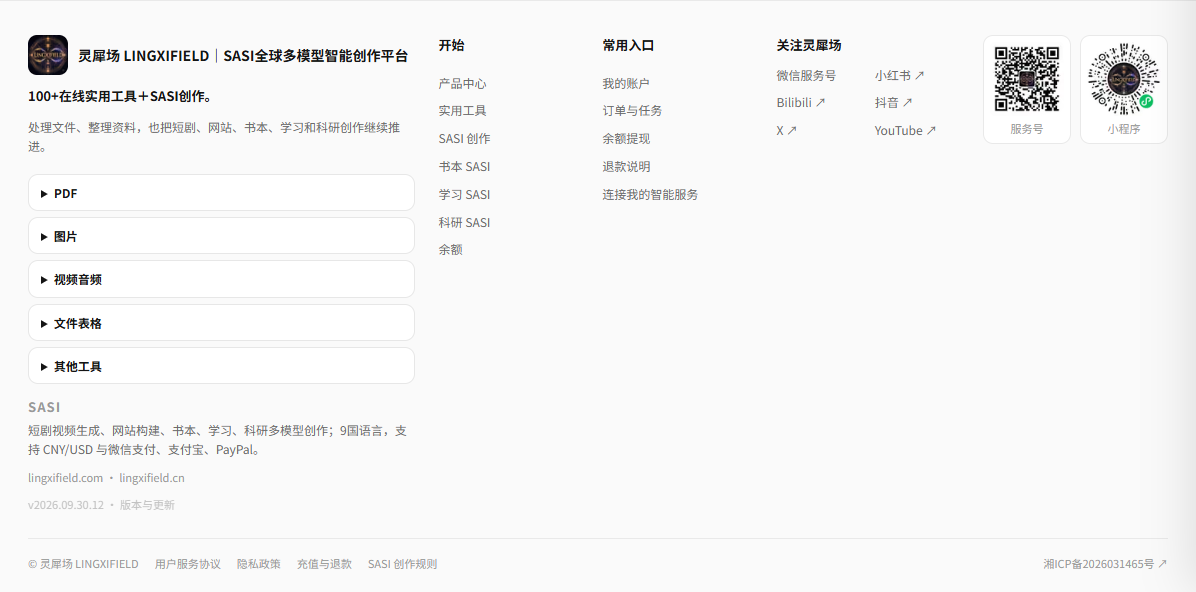
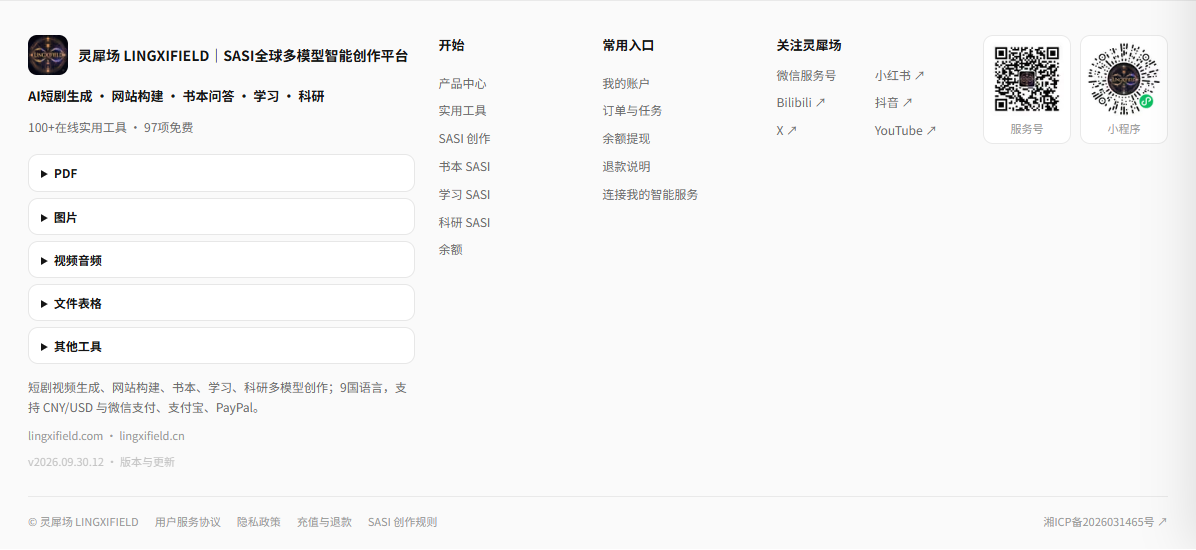
fix: make nine-language features discoverable and preserve SASI project requests

diff --git a/lib/seo/global-seo.ts b/lib/seo/global-seo.ts
@@ -1,4 +1,5 @@
 import {BRAND_PUBLIC_COPY} from "@/lib/brand-public-copy";
+import {PUBLIC_FEATURE_COPY} from "@/lib/public-feature-copy";
 import {toolIntro} from "@/lib/tools/product-copy";
 import {toolTitle as translatedToolTitle} from '@/lib/tools/card-i18n';
 import {toolFacts} from './product-facts';
@@ -6,7 +7,7 @@ import {PRIMARY_SITE} from "./site-domains";
 export const SITE=PRIMARY_SITE;
 export const SEO_LOCALES={  "zh":{
     hreflang:"zh-CN",name:"中文",dir:"ltr",
-    brand:"灵犀场 LINGXIFIELD",homeTitle:BRAND_PUBLIC_COPY.zh.title,homeDesc:"处理 PDF、图片、视频和文字，整理资料并围绕原文提问。各项功能的处理方式和费用在使用前说明。",
+    brand:"灵犀场 LINGXIFIELD",homeTitle:BRAND_PUBLIC_COPY.zh.title,homeDesc:PUBLIC_FEATURE_COPY.zh.description,
     toolsTitle:"在线实用工具｜PDF、图片、视频与文件",toolsDesc:"选择 PDF、图片、视频或文字工具，按步骤处理并保存文件。处理方式和费用请查看工具页面。",
     open:"打开工具",allTools:"查看全部工具",how:"怎么使用",what:"能做什么",privacy:"处理方式",
     local:"这项工具优先在你的设备中完成处理。",online:"这项工具需要在线处理；如产生费用，会在真正执行前说明。",topicIntro:"SASI 可以用于短剧、网站、书本、学习和科研创作。需要付费的步骤会在真正执行前显示费用；需要智能生成时可连接自己的智能服务。",
@@ -14,7 +15,7 @@ export const SEO_LOCALES={  "zh":{
   },
   "en":{
     hreflang:"en",name:"English",dir:"ltr",
-    brand:"LINGXIFIELD",homeTitle:BRAND_PUBLIC_COPY.en.title,homeDesc:"Work with PDFs, images, video and text. Organize sources and ask questions about them. Processing details and prices are shown before use.",
+    brand:"LINGXIFIELD",homeTitle:BRAND_PUBLIC_COPY.en.title,homeDesc:PUBLIC_FEATURE_COPY.en.description,
     toolsTitle:"Online tools for PDF, images, video and files",toolsDesc:"Choose a PDF, image, video or text tool, follow the steps and save your file. See each tool for processing details and prices.",
     open:"Open tool",allTools:"Browse all tools",how:"How to use it",what:"What it does",privacy:"Processing",
     local:"This tool is designed to run on your device whenever possible.",online:"This tool uses online processing. Any charge is shown before paid execution.",topicIntro:"SASI supports drama, website, book, learning and research workflows. Paid steps show the price before execution; connect your own intelligence service when intelligent generation is needed.",
@@ -22,7 +23,7 @@ export const SEO_LOCALES={  "zh":{
   },
   "ja":{
     hreflang:"ja",name:"日本語",dir:"ltr",
-    brand:"LINGXIFIELD",homeTitle:BRAND_PUBLIC_COPY.ja.title,homeDesc:"PDF・画像・動画・テキストを扱い、資料を整理して原文について質問できます。処理方法と料金は利用前に確認できます。",
+    brand:"LINGXIFIELD",homeTitle:BRAND_PUBLIC_COPY.ja.title,homeDesc:PUBLIC_FEATURE_COPY.ja.description,
     toolsTitle:"PDF・画像・動画・ファイルの実用ツール",toolsDesc:"PDF・画像・動画・テキストのツールを選び、手順に沿って処理して保存します。処理方法と料金は各ツールで確認できます。",
     open:"ツールを開く",allTools:"すべてのツール",how:"使い方",what:"できること",privacy:"処理方法",
     local:"可能な処理は端末内で実行します。",online:"オンライン処理を使います。有料の場合は実行前に料金を表示します。",topicIntro:"SASIは短編ドラマ、Webサイト、本、学習、研究に利用できます。有料の工程は実行前に料金を表示し、智能生成が必要な場合は自分のAIサービスを接続できます。",
@@ -30,7 +31,7 @@ export const SEO_LOCALES={  "zh":{
   },
   "ko":{
     hreflang:"ko",name:"한국어",dir:"ltr",
-    brand:"LINGXIFIELD",homeTitle:BRAND_PUBLIC_COPY.ko.title,homeDesc:"PDF·이미지·영상·텍스트를 처리하고 자료를 정리해 원문에 대해 질문하세요. 처리 방식과 요금은 사용 전에 확인할 수 있습니다.",
+    brand:"LINGXIFIELD",homeTitle:BRAND_PUBLIC_COPY.ko.title,homeDesc:PUBLIC_FEATURE_COPY.ko.description,
     toolsTitle:"PDF, 이미지, 영상, 파일 실용 도구",toolsDesc:"PDF·이미지·영상·텍스트 도구를 선택하고 안내에 따라 처리한 뒤 저장하세요. 처리 방식과 요금은 각 도구에서 확인하세요.",
     open:"도구 열기",allTools:"모든 도구 보기",how:"사용 방법",what:"할 수 있는 일",privacy:"처리 방식",
     local:"가능한 작업은 기기에서 직접 처리합니다.",online:"온라인 처리를 사용합니다. 유료 작업은 실행 전에 비용을 표시합니다.",topicIntro:"SASI는 숏드라마, 웹사이트, 책, 학습, 연구 작업에 사용할 수 있습니다. 유료 단계는 실행 전에 요금을 표시하며 지능형 생성이 필요할 때 자신의 서비스를 연결할 수 있습니다.",
@@ -38,7 +39,7 @@ export const SEO_LOCALES={  "zh":{
   },
   "fr":{
     hreflang:"fr",name:"Français",dir:"ltr",
-    brand:"LINGXIFIELD",homeTitle:BRAND_PUBLIC_COPY.fr.title,homeDesc:"Traitez PDF, images, vidéos et textes. Organisez vos sources et posez des questions à leur sujet. Les modalités et tarifs sont indiqués avant utilisation.",
+    brand:"LINGXIFIELD",homeTitle:BRAND_PUBLIC_COPY.fr.title,homeDesc:PUBLIC_FEATURE_COPY.fr.description,
     toolsTitle:"Outils en ligne pour PDF, images, vidéo et fichiers",toolsDesc:"Choisissez un outil PDF, image, vidéo ou texte, suivez les étapes et enregistrez votre fichier. Consultez les modalités et tarifs sur sa page.",
     open:"Ouvrir l’outil",allTools:"Voir tous les outils",how:"Comment l’utiliser",what:"Ce que l’outil fait",privacy:"Traitement",
     local:"Lorsque c’est possible, le traitement reste sur votre appareil.",online:"Cet outil utilise un traitement en ligne. Tout coût est indiqué avant l’exécution payante.",topicIntro:"SASI prend en charge les flux de mini-séries, sites, livres, apprentissage et recherche. Les étapes payantes affichent le tarif avant exécution ; connectez votre service d’IA lorsque la génération intelligente est nécessaire.",
@@ -46,7 +47,7 @@ export const SEO_LOCALES={  "zh":{
   },
   "de":{
     hreflang:"de",name:"Deutsch",dir:"ltr",
-    brand:"LINGXIFIELD",homeTitle:BRAND_PUBLIC_COPY.de.title,homeDesc:"Bearbeite PDFs, Bilder, Videos und Texte. Ordne Quellen und stelle Fragen dazu. Verarbeitung und Preise werden vor der Nutzung angezeigt.",
+    brand:"LINGXIFIELD",homeTitle:BRAND_PUBLIC_COPY.de.title,homeDesc:PUBLIC_FEATURE_COPY.de.description,
     toolsTitle:"Online-Tools für PDF, Bilder, Video und Dateien",toolsDesc:"Wähle ein Tool für PDF, Bilder, Video oder Text, folge den Schritten und speichere die Datei. Verarbeitung und Preise stehen auf der Tool-Seite.",
     open:"Tool öffnen",allTools:"Alle Tools",how:"So funktioniert es",what:"Was das Tool macht",privacy:"Verarbeitung",
     local:"Wo möglich, wird die Verarbeitung direkt auf deinem Gerät ausgeführt.",online:"Dieses Tool nutzt Online-Verarbeitung. Kosten werden vor einer kostenpflichtigen Ausführung angezeigt.",topicIntro:"SASI unterstützt Kurzdrama-, Website-, Buch-, Lern- und Forschungsabläufe. Kostenpflichtige Schritte zeigen den Preis vor der Ausführung; bei Bedarf kannst du deinen eigenen KI-Dienst verbinden.",
@@ -54,7 +55,7 @@ export const SEO_LOCALES={  "zh":{
   },
   "es":{
     hreflang:"es",name:"Español",dir:"ltr",
-    brand:"LINGXIFIELD",homeTitle:BRAND_PUBLIC_COPY.es.title,homeDesc:"Trabaja con PDF, imágenes, vídeos y textos. Organiza fuentes y haz preguntas sobre ellas. El tratamiento y los precios se indican antes del uso.",
+    brand:"LINGXIFIELD",homeTitle:BRAND_PUBLIC_COPY.es.title,homeDesc:PUBLIC_FEATURE_COPY.es.description,
     toolsTitle:"Herramientas online para PDF, imágenes, vídeo y archivos",toolsDesc:"Elige una herramienta para PDF, imágenes, vídeo o texto, sigue los pasos y guarda el archivo. Consulta los detalles y precios en cada herramienta.",
     open:"Abrir herramienta",allTools:"Ver todas las herramientas",how:"Cómo usarla",what:"Qué hace",privacy:"Procesamiento",
     local:"Siempre que sea posible, el procesamiento se realiza en tu dispositivo.",online:"Esta herramienta usa procesamiento online. Cualquier coste se muestra antes de ejecutar una acción de pago.",topicIntro:"SASI admite flujos de minidramas, sitios web, libros, aprendizaje e investigación. Los pasos de pago muestran el precio antes de ejecutarse; conecta tu propio servicio de IA cuando haga falta generación inteligente.",
@@ -62,7 +63,7 @@ export const SEO_LOCALES={  "zh":{
   },
   "pt":{
     hreflang:"pt",name:"Português",dir:"ltr",
-    brand:"LINGXIFIELD",homeTitle:BRAND_PUBLIC_COPY.pt.title,homeDesc:"Trabalhe com PDF, imagens, vídeos e textos. Organize fontes e faça perguntas sobre elas. O processamento e os preços são informados antes do uso.",
+    brand:"LINGXIFIELD",homeTitle:BRAND_PUBLIC_COPY.pt.title,homeDesc:PUBLIC_FEATURE_COPY.pt.description,
     toolsTitle:"Ferramentas online para PDF, imagens, vídeo e arquivos",toolsDesc:"Escolha uma ferramenta para PDF, imagens, vídeo ou texto, siga as etapas e salve o arquivo. Consulte os detalhes e preços na página da ferramenta.",
     open:"Abrir ferramenta",allTools:"Ver todas as ferramentas",how:"Como usar",what:"O que faz",privacy:"Processamento",
     local:"Sempre que possível, o processamento acontece no seu dispositivo.",online:"Esta ferramenta usa processamento online. Qualquer custo é mostrado antes de uma execução paga.",topicIntro:"O SASI oferece fluxos de minidramas, sites, livros, estudo e pesquisa. Etapas pagas mostram o preço antes da execução; conecte seu próprio serviço de IA quando a geração inteligente for necessária.",
@@ -70,7 +71,7 @@ export const SEO_LOCALES={  "zh":{
   },
   "ar":{
     hreflang:"ar",name:"العربية",dir:"rtl",
-    brand:"LINGXIFIELD",homeTitle:BRAND_PUBLIC_COPY.ar.title,homeDesc:"عالج ملفات PDF والصور والفيديو والنصوص، ونظّم المصادر واطرح أسئلة عنها. تُعرض طريقة المعالجة والأسعار قبل الاستخدام.",
+    brand:"LINGXIFIELD",homeTitle:BRAND_PUBLIC_COPY.ar.title,homeDesc:PUBLIC_FEATURE_COPY.ar.description,
     toolsTitle:"أدوات أونلاين لملفات PDF والصور والفيديو",toolsDesc:"اختر أداة لملفات PDF أو الصور أو الفيديو أو النصوص، واتبع الخطوات واحفظ الملف. راجع طريقة المعالجة والأسعار في صفحة الأداة.",
     open:"فتح الأداة",allTools:"عرض كل الأدوات",how:"طريقة الاستخدام",what:"ما الذي تفعله",privacy:"طريقة المعالجة",
     local:"تتم المعالجة على جهازك كلما كان ذلك ممكناً.",online:"تستخدم هذه الأداة معالجة عبر الإنترنت. تظهر أي تكلفة قبل التنفيذ المدفوع.",topicIntro:"يدعم SASI مسارات الدراما القصيرة والمواقع والكتب والتعلم والبحث. تعرض الخطوات المدفوعة السعر قبل التنفيذ، ويمكن ربط خدمة الذكاء الخاصة بك عند الحاجة إلى التوليد الذكي.",

diff --git a/lib/public-feature-copy.ts b/lib/public-feature-copy.ts
@@ -1,0 +1,23 @@
+import type {LingxiLang} from './lingxi-i18n';
+export const PUBLIC_SEARCH_TITLES:Record<LingxiLang,string>={
+ zh:'AI短剧生成、网站构建、97项免费工具｜灵犀场 LINGXIFIELD',
+ en:'AI Short Dramas, Website Builder & 97 Free Tools | LINGXIFIELD',
+ ja:'AI短編ドラマ・サイト作成・97種類の無料ツール｜LINGXIFIELD',
+ ko:'AI 숏드라마·웹사이트 제작·무료 도구 97개 | LINGXIFIELD',
+ fr:'Mini-séries IA, création de sites et 97 outils gratuits | LINGXIFIELD',
+ de:'KI-Kurzdramen, Websites und 97 kostenlose Tools | LINGXIFIELD',
+ es:'Minidramas IA, sitios web y 97 herramientas gratis | LINGXIFIELD',
+ pt:'Minidramas IA, sites e 97 ferramentas gratuitas | LINGXIFIELD',
+ ar:'دراما قصيرة ومواقع بالذكاء الاصطناعي و97 أداة مجانية | LINGXIFIELD'
+};
+export const PUBLIC_FEATURE_COPY:Record<LingxiLang,{headline:string;freeTools:string;description:string;directory:string;free:string;paid:string}>={
+ zh:{headline:'AI短剧生成 · 网站构建 · 书本问答 · 学习 · 科研',freeTools:'100+在线实用工具 · 97项免费',description:'AI短剧生成、网站构建、书本问答、学习与科研。100+在线实用工具，97项免费：PDF合并、拆分、压缩，图片转换、文字识别，视频裁剪、音频提取、表格转换与隐私清理。付费功能会在使用前显示费用。',directory:'按功能找工具',free:'免费',paid:'有收费功能'},
+ en:{headline:'AI short dramas · Website builder · Book Q&A · Study · Research',freeTools:'100+ online tools · 97 free',description:'Create AI short dramas and websites. Ask questions about books, study and research. Explore 100+ online tools, including 97 free tools for PDFs, images, OCR, video, audio, spreadsheets and privacy. Paid features show their price before use.',directory:'Find a tool by function',free:'Free',paid:'Includes paid features'},
+ ja:{headline:'AI短編ドラマ · サイト作成 · 本への質問 · 学習 · 研究',freeTools:'100以上のオンラインツール · 97種類が無料',description:'AI短編ドラマやWebサイトを作成し、本への質問、学習、研究に活用。PDF、画像、文字認識、動画、音声、表計算、プライバシーの100以上のツールのうち97種類は無料です。有料機能は利用前に料金を表示します。',directory:'機能からツールを探す',free:'無料',paid:'有料機能あり'},
+ ko:{headline:'AI 숏드라마 · 웹사이트 제작 · 책 질문 · 학습 · 연구',freeTools:'100개 이상의 온라인 도구 · 97개 무료',description:'AI 숏드라마와 웹사이트를 만들고 책에 질문하며 학습과 연구를 진행하세요. PDF, 이미지, 문자 인식, 영상, 오디오, 스프레드시트, 개인정보 보호 도구 100개 이상 중 97개는 무료입니다. 유료 기능은 사용 전에 요금을 표시합니다.',directory:'기능별 도구 찾기',free:'무료',paid:'유료 기능 포함'},
+ fr:{headline:'Mini-séries IA · Création de sites · Questions sur les livres · Étude · Recherche',freeTools:'Plus de 100 outils en ligne · 97 gratuits',description:'Créez des mini-séries IA et des sites, posez des questions sur vos livres, étudiez et recherchez. Plus de 100 outils pour PDF, images, OCR, vidéo, audio, tableaux et confidentialité, dont 97 gratuits. Les fonctions payantes affichent leur prix avant utilisation.',directory:'Trouver un outil par fonction',free:'Gratuit',paid:'Fonctions payantes incluses'},
+ de:{headline:'KI-Kurzdramen · Websites erstellen · Bücher befragen · Lernen · Forschung',freeTools:'Über 100 Online-Werkzeuge · 97 kostenlos',description:'Erstelle KI-Kurzdramen und Websites, stelle Fragen zu Büchern, lerne und forsche. Über 100 Werkzeuge für PDF, Bilder, OCR, Video, Audio, Tabellen und Datenschutz, davon 97 kostenlos. Kostenpflichtige Funktionen zeigen den Preis vor der Nutzung.',directory:'Werkzeuge nach Funktion finden',free:'Kostenlos',paid:'Enthält kostenpflichtige Funktionen'},
+ es:{headline:'Minidramas IA · Crear sitios web · Preguntar a libros · Estudio · Investigación',freeTools:'Más de 100 herramientas online · 97 gratuitas',description:'Crea minidramas IA y sitios web, pregunta sobre libros, estudia e investiga. Más de 100 herramientas para PDF, imágenes, OCR, vídeo, audio, hojas de cálculo y privacidad, con 97 gratuitas. Las funciones de pago muestran el precio antes del uso.',directory:'Buscar herramientas por función',free:'Gratis',paid:'Incluye funciones de pago'},
+ pt:{headline:'Minidramas IA · Criar sites · Perguntar aos livros · Estudo · Pesquisa',freeTools:'Mais de 100 ferramentas online · 97 gratuitas',description:'Crie minidramas IA e sites, faça perguntas sobre livros, estude e pesquise. Mais de 100 ferramentas para PDF, imagens, OCR, vídeo, áudio, planilhas e privacidade, incluindo 97 gratuitas. Funções pagas mostram o preço antes do uso.',directory:'Encontrar ferramentas por função',free:'Grátis',paid:'Inclui funções pagas'},
+ ar:{headline:'دراما قصيرة بالذكاء الاصطناعي · إنشاء مواقع · أسئلة عن الكتب · دراسة · بحث',freeTools:'أكثر من 100 أداة عبر الإنترنت · 97 مجانية',description:'أنشئ دراما قصيرة ومواقع بالذكاء الاصطناعي واسأل عن الكتب وتابع الدراسة والبحث. أكثر من 100 أداة لملفات PDF والصور واستخراج النص والفيديو والصوت والجداول والخصوصية، منها 97 مجانية. تظهر أسعار الوظائف المدفوعة قبل الاستخدام.',directory:'ابحث عن أداة حسب الوظيفة',free:'مجاني',paid:'يتضمن وظائف مدفوعة'}
+};

diff --git a/tests/final-closure/sasi-convergence-r10.spec.ts b/tests/final-closure/sasi-convergence-r10.spec.ts
@@ -8,6 +8,11 @@ test('switch tasks preserves each draft',async({page})=>{
  await page.getByRole('button',{name:/Switch task/}).click();await page.getByRole('button',{name:'Study',exact:true}).click();await expect(study).toHaveValue('Explain this chapter');expect(errors).toEqual([]);
  expect(await page.evaluate(()=>document.documentElement.scrollWidth<=innerWidth)).toBe(true);
 });
+test('homepage carries website intent into SASI without submitting a paid request',async({page})=>{
+ let requests=0;await page.route('**/api/sasi/projects',route=>{requests++;return route.fulfill({status:401,json:{error:'AUTH_REQUIRED'}})});
+ await page.goto('/');await page.locator('main textarea').fill('帮我做一个酒店的网站');await page.locator('main form button').click();
+ await expect(page.locator('[data-sasi-task="website"] textarea')).toHaveValue('帮我做一个酒店的网站');expect(requests).toBe(0);
+});
 test('launcher Enter respects IME and Shift, accepts pasted files',async({page})=>{
  await page.goto('/sasi?lang=en');const field=page.getByPlaceholder('Tell SASI what you want to do…');await field.fill('Build a bakery website');
  await field.dispatchEvent('keydown',{key:'Enter',code:'Enter',isComposing:true,keyCode:229});await expect(page).not.toHaveURL(/mode=website/);
@@ -28,8 +33,20 @@ test('free website returns real pages and failure removes stale results',async({
  const downloadPromise=page.waitForEvent('download');await output.locator('button').click();const download=await downloadPromise;expect(download.suggestedFilename()).toMatch(/\.zip$/);
  await field.fill('Try a different website');await field.press('Enter');await expect(output).not.toBeVisible();await expect(page.getByRole('status')).toBeVisible();expect(paidCalls).toBe(0);
 });
+test('project retry preserves request identity and a short Chinese brief',async({page})=>{
+ const id='22222222-2222-4222-8222-222222222222';const keys:string[]=[];
+ await page.route('**/api/sasi/projects',async route=>{keys.push(route.request().headers()['idempotency-key']);expect(route.request().postDataJSON().brief).toBe('帮我做一个酒店的网站');if(keys.length===1)return route.abort('failed');return route.fulfill({json:{project:{id}}});});
+ await page.route('**/api/sasi/projects/*/context*',route=>route.fulfill({json:{documents:[]}}));
+ await page.route('**/api/sasi/learning/**',route=>route.fulfill({json:{ok:true}}));
+ await page.route('**/api/sasi/experience/website',route=>route.fulfill({status:503,json:{state:'unavailable'}}));
+ await page.goto('/sasi?mode=website&lang=zh');const field=page.locator('[data-sasi-task="website"] textarea');await field.fill('帮我做一个酒店的网站');await field.press('Enter');await expect(page.getByRole('status')).toContainText('项目没有成功建立');await field.press('Enter');await expect.poll(()=>keys.length).toBe(2);expect(keys[0]).toBe(keys[1]);await expect(field).toHaveValue('帮我做一个酒店的网站');
+});
 for(const lang of ['zh','en','ja','ko','fr','de','es','pt','ar'])test('brand and compact footer '+lang,async({page})=>{
- await page.goto('/?lang='+lang);await expect(page.locator('.lx-v37-brand-title')).toContainText('LINGXIFIELD');
+ await page.goto(lang==='zh'?'/':'/'+lang);await expect(page.locator('.lx-v37-brand-title')).toContainText('LINGXIFIELD');
+ expect((await page.title()).match(/LINGXIFIELD/g)).toHaveLength(1);
+ if(lang==='zh')await expect(page).toHaveTitle('AI短剧生成、网站构建、97项免费工具｜灵犀场 LINGXIFIELD');
  const footer=page.locator('footer');await expect(footer).toContainText('SASI');await expect(footer.locator('details')).toHaveCount(5);await footer.locator('summary').first().click();await expect(footer.locator('details').first()).toHaveAttribute('open','');
+ await expect(page.locator('[data-home-tool-directory] a')).toHaveCount(116);
+ if(lang==='zh'){await expect(page.locator('.lx-v37-brand-desc')).toContainText('AI短剧生成、网站构建');await expect(page.locator('.lx-v37-brand-desc')).toContainText('97项免费');await expect(page.getByText('100+ 在线实用工具，一处处理文件；SASI 多模型创作，一处继续真正重要的工作。',{exact:true})).toHaveCount(0);}
  expect(await page.evaluate(()=>document.documentElement.scrollWidth<=innerWidth)).toBe(true);
 });

diff --git a/components/HomeProblemHub.tsx b/components/HomeProblemHub.tsx
@@ -1,5 +1,6 @@
 "use client";
 import {BRAND_PUBLIC_COPY} from "@/lib/brand-public-copy";
+import {PUBLIC_FEATURE_COPY} from "@/lib/public-feature-copy";
 
 import {FormEvent,useMemo,useState} from "react";
 import Link from "next/link";
@@ -20,8 +21,8 @@ const copy:Record<LingxiLang,Copy>={
  zh:{
   kicker:"灵犀场 LINGXIFIELD｜SASI全球多模型智能创作平台",
   seoTitle:"灵犀场 LINGXIFIELD｜SASI全球多模型智能创作平台",
-  seoDesc:"100+在线实用工具＋SASI创作。处理 PDF、图片、视频音频、文件表格与隐私任务，也可以继续做短剧、网站、书本、学习和科研创作。",hero:"让复杂的工作，变得简单高效",
-  lead:"100+ 在线实用工具，一处处理文件；SASI 多模型创作，一处继续真正重要的工作。",
+  seoDesc:"AI短剧生成、网站构建、书本问答、学习与科研。100+在线实用工具，97项免费：PDF合并、拆分、压缩，图片转换、文字识别，视频裁剪、音频提取、表格转换与隐私清理。",hero:"今天你要完成什么？",
+  lead:"",
   placeholder:"告诉灵犀场：你现在最想解决什么？",begin:"开始处理",startWith:"可以直接从",
   taskTitle:"你现在要完成什么？",taskLead:"不需要先理解平台。先解决眼前这件事。",start:"开始",
   why:"为什么从这里开始",finishNow:"先把眼前的小事处理掉",finishNowBody:"PDF、图片、视频、字幕、表格和隐私文件，不需要在多个软件之间来回切换。打开对应工具，处理完成后直接拿到结果。",
@@ -193,18 +194,16 @@ export default function HomeProblemHub(){
   {href:"/sasi?mode=research",icon:"research" as LingxiIconName,title:c.research,desc:c.researchDesc},
   {href:"/products",icon:"products" as LingxiIconName,title:c.all,desc:c.allDesc},
  ];
- function submit(e:FormEvent){e.preventDefault();const v=q.trim();if(!v)return;if(isLikelyToolQuery(v)){try{sessionStorage.setItem("lx-global-search",v)}catch{};location.href=`/tools?q=${encodeURIComponent(v)}`;return}if(hit?.score>0)location.href=hit.href;else{try{sessionStorage.setItem("lx-home-intent",v)}catch{};location.href=`/sasi?intent=${encodeURIComponent(v)}`}}
+ function submit(e:FormEvent){e.preventDefault();const v=q.trim();if(!v)return;if(isLikelyToolQuery(v)){location.href=`/tools?q=${encodeURIComponent(v)}&lang=${lang}`;return}const url=new URL(hit?.score>0?hit.href:'/sasi',location.origin);url.searchParams.set('intent',v);url.searchParams.set('lang',lang);location.href=url.pathname+url.search;}
  return <main className="lx11-page"><div className="lx11-wrap">
   <section className="lx11-home-hero lx-home-v143 overflow-hidden">
    <div className="grid items-center gap-8 lg:grid-cols-[1.15fr_.85fr]">
     <div>
      <p className="lx-v37-brand-title">{BRAND_PUBLIC_COPY[lang].title}</p>
      <h1>{c.hero}</h1>
-     <p className="lx-v37-brand-desc">{c.seoDesc}</p>
-     <p>{c.lead}</p>
+     <p className="lx-v37-brand-desc">{PUBLIC_FEATURE_COPY[lang].description}</p>
      <form onSubmit={submit} className="lx11-prompt"><textarea value={q} onChange={e=>setQ(e.target.value)} rows={2} aria-label={c.placeholder} placeholder={c.placeholder}/><button>{c.begin}</button></form>
      {q.trim()&&hit?.score>0&&<div className="lx11-suggestion"><span>{c.startWith}</span><Link href={hit.href}>{hit.label}</Link></div>}
-     {lang==="zh"&&<div className="mt-4 flex flex-wrap gap-2 text-xs text-[var(--lx-muted)]"><span className="rounded-full border border-[var(--lx-line)] px-3 py-2">⚡ 100+ 在线工具</span><span className="rounded-full border border-[var(--lx-line)] px-3 py-2">✦ SASI 多模型创作</span><span className="rounded-full border border-[var(--lx-line)] px-3 py-2">🛡 隐私与安全</span><span className="rounded-full border border-[var(--lx-line)] px-3 py-2">🌍 9 国语言</span></div>}
     </div>
     <div className="relative hidden min-h-[330px] lg:block" aria-hidden="true">
      <div className="absolute inset-8 rounded-[42px] border border-violet-200/70 bg-gradient-to-br from-blue-50 via-white to-violet-100 shadow-[0_28px_80px_rgba(90,95,180,.16)]"/>

diff --git a/components/SasiChatCreationStudio.tsx b/components/SasiChatCreationStudio.tsx
@@ -1,4 +1,5 @@
 "use client";
+import {projectErrorCopy} from '@/lib/sasi/project-error-copy';
 import {sasiCommonText} from "@/lib/sasi/common-ui-copy";
 
 import {useCallback,useEffect,useRef,useState,type ReactNode} from "react";
@@ -78,6 +79,7 @@ export default function SasiChatCreationStudio({mode,initialPrompt="",initialFil
  const[dragging,setDragging]=useState(false);
  const[rightsConfirmed,setRightsConfirmed]=useState(false);
  const operation=useRef(false);
+ const projectAttempt=useRef<{body:string;key:string}|null>(null);
  const mounted=useRef(true);
  const inputRef=useRef<HTMLInputElement|null>(null);
  const textareaRef=useRef<HTMLTextAreaElement|null>(null);
@@ -136,14 +138,15 @@ export default function SasiChatCreationStudio({mode,initialPrompt="",initialFil
 
  async function ensureProject(){
   if(projectId)return projectId;
-  const requestId=crypto.randomUUID();
   const attachments=files.map(x=>({name:x.file.name,size:x.file.size,kind:kindFor(x.file.name)}));
   const body=mode==="drama"
    ?{kind:"drama",brief:prompt.trim(),attachments,seconds:duration,quality:resolution==="720p"?"fast":resolution==="1080p"?"balanced":"cinema",budgetFen:0,language:lang}
    :{kind:"build",brief:prompt.trim(),attachments,language:lang};
-  const r=await fetch("/api/sasi/projects",{method:"POST",headers:{"content-type":"application/json","Idempotency-Key":requestId},body:JSON.stringify(body)});
+  const serialized=JSON.stringify(body);
+  if(projectAttempt.current?.body!==serialized)projectAttempt.current={body:serialized,key:crypto.randomUUID()};
+  const r=await fetch("/api/sasi/projects",{method:"POST",headers:{"content-type":"application/json","Idempotency-Key":projectAttempt.current.key},body:serialized}).catch(()=>{throw new Error(ct('projectFailed'))});
   const b=await r.json().catch(()=>({}));
-  if(!r.ok)throw new Error(b.error==="AUTH_REQUIRED"?ct("loginRequired"):ct("projectFailed"));
+  if(!r.ok)throw new Error(b.error==="AUTH_REQUIRED"?ct("loginRequired"):projectErrorCopy(lang,b.error,r.status)||ct("projectFailed"));
   const id=b.project?.projectId||b.project?.id||b.project?.project_id||b.project?.projectID;
   if(typeof id!=="string")throw new Error(ct("projectIdMissing"));
   setProjectId(id);
@@ -205,7 +208,7 @@ export default function SasiChatCreationStudio({mode,initialPrompt="",initialFil
    await track("continued",mode==="drama"?"drama.prepare":"website.prepare",pid);
    if(mode==="website")await prepareWebsite(pid,uploaded); else await prepareDrama(pid,uploaded);
   }catch(e){
-   setMessage(e instanceof Error?e.message:ct("genericUnavailable"))
+   setMessage(e instanceof Error&&!(e instanceof TypeError)&&e.name!=='AbortError'?e.message:ct("genericUnavailable"))
   }
   finally{operation.current=false;setBusy(false)}
  }
@@ -292,7 +295,7 @@ export default function SasiChatCreationStudio({mode,initialPrompt="",initialFil
     if(!r.ok)throw new Error(ct("supplierStartFailed"));
     await pollByok(quote.task.id);
    }
-  }catch(e){setMessage(e instanceof Error?e.message:ct("genericUnavailable"))}
+  }catch(e){setMessage(e instanceof Error&&!(e instanceof TypeError)&&e.name!=='AbortError'?e.message:ct("genericUnavailable"))}
   finally{operation.current=false;setBusy(false)}
  }
 

diff --git a/lib/sasi/project-error-copy.ts b/lib/sasi/project-error-copy.ts
@@ -1,0 +1,18 @@
+import type {LingxiLang} from '@/lib/lingxi-i18n';
+const copy:Record<LingxiLang,{brief:string;rate:string;reload:string}>={
+ zh:{brief:'请写下你要做的网站或视频，至少两个字；也可以先添加资料。',rate:'你刚创建了较多项目，请先继续已有项目，稍后再新建。',reload:'请刷新页面后重试，你输入的内容仍保留在这里。'},
+ en:{brief:'Describe your website or video in at least two characters, or add a file.',rate:'You have created several projects recently. Continue an existing project or try later.',reload:'Refresh the page and try again. Your current input is still here.'},
+ ja:{brief:'作りたいサイトや動画を2文字以上で入力するか、資料を追加してください。',rate:'最近多くのプロジェクトを作成しました。既存のものを続けるか、後で再試行してください。',reload:'ページを更新して再試行してください。現在の入力はここに残っています。'},
+ ko:{brief:'만들 사이트나 영상을 두 글자 이상 입력하거나 자료를 추가하세요.',rate:'최근 여러 프로젝트를 만들었습니다. 기존 프로젝트를 계속하거나 나중에 다시 시도하세요.',reload:'페이지를 새로 고침하고 다시 시도하세요. 현재 입력은 여기에 남아 있습니다.'},
+ fr:{brief:'Décrivez le site ou la vidéo en au moins deux caractères, ou ajoutez un fichier.',rate:'Vous avez créé plusieurs projets récemment. Continuez un projet existant ou réessayez plus tard.',reload:'Actualisez la page et réessayez. Votre saisie actuelle est encore ici.'},
+ de:{brief:'Beschreibe die Website oder das Video mit mindestens zwei Zeichen oder füge eine Datei hinzu.',rate:'Du hast zuletzt mehrere Projekte erstellt. Setze ein vorhandenes fort oder versuche es später.',reload:'Lade die Seite neu und versuche es erneut. Deine aktuelle Eingabe ist noch hier.'},
+ es:{brief:'Describe el sitio o vídeo con al menos dos caracteres, o añade un archivo.',rate:'Has creado varios proyectos recientemente. Continúa uno existente o inténtalo más tarde.',reload:'Actualiza la página y vuelve a intentarlo. Tu texto actual sigue aquí.'},
+ pt:{brief:'Descreva o site ou vídeo com pelo menos dois caracteres, ou adicione um arquivo.',rate:'Você criou vários projetos recentemente. Continue um existente ou tente mais tarde.',reload:'Atualize a página e tente novamente. Seu texto atual continua aqui.'},
+ ar:{brief:'صف الموقع أو الفيديو بحرفين على الأقل أو أضف ملفاً.',rate:'أنشأت عدة مشاريع مؤخراً. تابع مشروعاً موجوداً أو حاول لاحقاً.',reload:'حدّث الصفحة وحاول مجدداً. لا يزال النص الحالي موجوداً هنا.'}
+};
+export function projectErrorCopy(lang:LingxiLang,code:string,status:number):string|null{
+ if(code==='INVALID_PROJECT_BRIEF')return copy[lang].brief;
+ if(code==='project_rate_limited'||status===429)return copy[lang].rate;
+ if(code==='INVALID_REQUEST_ORIGIN')return copy[lang].reload;
+ return null;
+}

diff --git a/app/[locale]/page.tsx b/app/[locale]/page.tsx
@@ -1,10 +1,12 @@
 import {publicPageMetadata} from "@/lib/seo/page-metadata";
-import { SHARE_IMAGES, SHARE_IMAGE_URL } from "@/lib/share-image";
 import type {Metadata} from "next";
-import Link from "next/link";
+import Nav from '@/components/Nav';
+import Footer from '@/components/Footer';
+import HomeProblemHub from '@/components/HomeProblemHub';
+import HomeToolDirectory from '@/components/seo/HomeToolDirectory';
+import {PUBLIC_FEATURE_COPY,PUBLIC_SEARCH_TITLES} from '@/lib/public-feature-copy';
 import {notFound} from "next/navigation";
-import {FACT_LABELS} from '@/lib/seo/product-facts';
-import {LOCALIZED_LOCALES,SEO_LOCALES,isSeoLocale,languageAlternates,localePath,SEO_TOPICS,type SeoLocale} from "@/lib/seo/global-seo";
+import {LOCALIZED_LOCALES,SEO_LOCALES,isSeoLocale,type SeoLocale} from "@/lib/seo/global-seo";
 
 type Props={params: Promise<{locale:string}>};
 export function generateStaticParams(){return LOCALIZED_LOCALES.map(locale=>({locale}))}
@@ -12,18 +14,11 @@ export async function generateMetadata(props:Props):Promise<Metadata> {
  const params = await props.params;
  if(!isSeoLocale(params.locale)||params.locale==="zh")return {};
  const locale=params.locale,c=SEO_LOCALES[locale];
- return publicPageMetadata(locale,"/",c.homeTitle,c.homeDesc);
+ return publicPageMetadata(locale,"/",PUBLIC_SEARCH_TITLES[locale],PUBLIC_FEATURE_COPY[locale].description);
 }
 export default async function LocalizedHome(props:Props) {
  const params = await props.params;
  if(!isSeoLocale(params.locale)||params.locale==="zh")notFound();
  const locale=params.locale as SeoLocale,c=SEO_LOCALES[locale];
- return <main lang={c.hreflang} dir={c.dir} style={{maxWidth:1040,margin:"0 auto",padding:"48px 24px",fontFamily:"system-ui"}}>
-  <header><Link href={localePath(locale,'/')} style={{textDecoration:"none"}}><b>{c.brand}</b></Link> · <Link href={localePath(locale,'/products')}>{FACT_LABELS.products[locale]}</Link></header>
-  <section style={{padding:"64px 0 36px"}}><h1 style={{fontSize:"clamp(34px,6vw,64px)",lineHeight:1.08,margin:0}}>{c.homeTitle}</h1><p style={{fontSize:19,lineHeight:1.8,maxWidth:820}}>{c.homeDesc}</p></section>
-  <section><h2>{c.toolsTitle}</h2><p>{c.toolsDesc}</p><Link href={localePath(locale,"/tools")}>{c.allTools} →</Link></section>
-  <section style={{marginTop:44}}><h2>SASI</h2><p>{c.topicIntro}</p><div style={{display:"grid",gridTemplateColumns:"repeat(auto-fit,minmax(240px,1fr))",gap:12}}>
-   {(Object.keys(SEO_TOPICS) as Array<keyof typeof SEO_TOPICS>).map(topic=><Link key={topic} href={localePath(locale,`/discover/${topic}`)} style={{padding:18,border:"1px solid currentColor",borderRadius:16,textDecoration:"none"}}>{SEO_TOPICS[topic][locale]} →</Link>)}
-  </div></section>
- </main>
+ return <><Nav/><div lang={c.hreflang} dir={c.dir}><HomeProblemHub/><HomeToolDirectory locale={locale}/><Footer/></div></>;
 }

diff --git a/components/SasiOneSurface.tsx b/components/SasiOneSurface.tsx
@@ -6,10 +6,11 @@ import SasiUnifiedLauncher from "@/components/SasiUnifiedLauncher";
 import {SasiUnifiedConversationProvider} from "@/components/SasiUnifiedConversationProvider";
 import type {SasiMode} from "@/lib/sasi/core/session-contract";
 import type{SasiSkillId}from"@/lib/sasi/skills/types";
+import {inferSasiMode} from '@/lib/sasi/core/intent-router';
 function normalize(value:string|null):SasiMode|null{return value==="website"||value==="book"||value==="learning"||value==="research"||value==="drama"?value:null}
-export default function SasiOneSurface(){const params=useSearchParams();const[mode,setMode]=useState<SasiMode|null>(()=>normalize(params.get("mode")));const[initialPrompt,setInitialPrompt]=useState("");const[initialFiles,setInitialFiles]=useState<File[]>([]);const[initialSkillIds,setInitialSkillIds]=useState<SasiSkillId[]>([]);
+export default function SasiOneSurface(){const params=useSearchParams();const intent=(params.get('intent')||'').slice(0,16000);const[mode,setMode]=useState<SasiMode|null>(()=>normalize(params.get("mode"))||inferSasiMode(intent));const[initialPrompt,setInitialPrompt]=useState(intent);const[initialFiles,setInitialFiles]=useState<File[]>([]);const[initialSkillIds,setInitialSkillIds]=useState<SasiSkillId[]>([]);
  useEffect(()=>{const next=normalize(params.get("mode"));if(next)setMode(next)},[params]);
  function setUrl(next:SasiMode|null){const url=new URL(window.location.href);if(next)url.searchParams.set("mode",next);else url.searchParams.delete("mode");url.searchParams.delete("projectId");window.history.replaceState({},"",url.pathname+(url.searchParams.toString()?`?${url.searchParams.toString()}`:""))}
  function enter(next:SasiMode,prompt="",files:File[]=[],skillIds:SasiSkillId[]=[]){setInitialPrompt(prompt);setInitialFiles(files);setInitialSkillIds(skillIds);setMode(next);setUrl(next)}
  function switchMode(next:SasiMode){setInitialPrompt("");setInitialFiles([]);setInitialSkillIds([]);setMode(next);setUrl(next)}
- return <main className="lx11-page min-h-[calc(100vh-64px)]"><div className="mx-auto max-w-[1440px] px-3 sm:px-5"><SasiUnifiedConversationProvider>{mode?<SasiModeHost mode={mode} initialPrompt={initialPrompt} initialFiles={initialFiles} initialSkillIds={initialSkillIds} onSwitch={switchMode}/>:<SasiUnifiedLauncher onStart={enter}/>}</SasiUnifiedConversationProvider></div></main>}
+ return <main className="lx11-page min-h-[calc(100vh-64px)]"><div className="mx-auto max-w-[1440px] px-3 sm:px-5"><SasiUnifiedConversationProvider>{mode?<SasiModeHost mode={mode} initialPrompt={initialPrompt} initialFiles={initialFiles} initialSkillIds={initialSkillIds} onSwitch={switchMode}/>:<SasiUnifiedLauncher initialPrompt={intent} onStart={enter}/>}</SasiUnifiedConversationProvider></div></main>}

diff --git a/components/Footer.tsx b/components/Footer.tsx
@@ -1,6 +1,7 @@
 "use client";
 import {FOOTER_CATALOG} from "@/lib/footer-catalog-copy";
 import {BRAND_PUBLIC_COPY} from "@/lib/brand-public-copy";
+import {PUBLIC_FEATURE_COPY} from "@/lib/public-feature-copy";
 import Image from"next/image";
 import Link from"next/link";
 import{useLingxiLang,type LingxiLang}from"@/lib/lingxi-i18n";
@@ -26,9 +27,10 @@ export default function Footer(){
  const{t,lang}=useLingxiLang();const c=copy[lang]??copy.en;
  return <footer className="lx11-footer" id="wechat"><div className="lx11-footer-grid">
  <section className="lx11-footer-brand"><div className="lx11-footer-logo"><Image src="/images/lingxifield-logo.png" alt="" width={40} height={40}/><div><b>{BRAND_PUBLIC_COPY[lang].title}</b></div></div>
- <p className="lx11-footer-brand-lead"><b>{BRAND_PUBLIC_COPY[lang].tagline}</b></p><p>{c.lead}</p>
+ <p className="lx11-footer-brand-lead"><b>{PUBLIC_FEATURE_COPY[lang].headline}</b></p>
+ <p>{PUBLIC_FEATURE_COPY[lang].freeTools}</p>
  <div className="lx-footer-catalog">{FOOTER_CATALOG[lang].map(category=><details key={category.title}><summary>{category.title}</summary><p>{category.body}</p></details>)}</div>
- <div className="lx11-footer-capability"><b>SASI</b><p>{c.sasiBody}</p></div>
+ <div className="lx11-footer-capability"><p>{c.sasiBody}</p></div>
  <span>lingxifield.com · lingxifield.cn</span><span style={{opacity:.58,fontSize:12}}>v{LINGXIFIELD_RELEASE.website} · <Link href="/release">{c.release}</Link></span></section>
  <nav><b>{t("start")}</b><Link href="/products">{productCatalogText(lang,"title")}</Link><Link href="/tools">{t("tools")}</Link><Link href="/sasi">{t("studio")}</Link><Link href="/ai-knowledge">{t("books")}</Link><Link href="/ai-learning">{t("learning")}</Link><Link href="/ai-research">{t("research")}</Link><Link href="/ai-wallet">{t("wallet")}</Link></nav>
  <nav><b>{c.useful}</b><Link href="/account">{c.account}</Link><Link href="/account/orders">{c.orders}</Link><Link href="/account/withdrawals">{c.withdraw}</Link><Link href="/refunds">{c.refunds}</Link><Link href="/sasi/connections">{c.connect}</Link></nav>

diff --git a/app/layout.tsx b/app/layout.tsx
@@ -10,6 +10,7 @@ import CurrencyPreferenceProvider from "@/components/CurrencyPreferenceProvider"
 import SiteStructuredData from "@/components/SiteStructuredData";
 import LingxifieldFeedback from "@/components/support/LingxifieldFeedback";
 import {PRIMARY_SITE} from "@/lib/seo/site-domains";
+import {PUBLIC_FEATURE_COPY} from "@/lib/public-feature-copy";
 
 const SITE=PRIMARY_SITE;
 const SHARE_IMAGE=`${SITE}/og-lingxifield-20260928.png`;
@@ -22,7 +23,7 @@ export const metadata:Metadata={
   default:"灵犀场 LINGXIFIELD｜SASI全球多模型智能创作平台",
   template:"%s ｜ 灵犀场 LINGXIFIELD"
  },
- description:"处理 PDF、图片、视频和文字，整理资料并围绕原文提问。各项功能的处理方式和费用在使用前说明。",
+ description:PUBLIC_FEATURE_COPY.zh.description,
  applicationName:"灵犀场 LINGXIFIELD｜SASI全球多模型智能创作平台",
  alternates:{canonical:SITE},
  keywords:[
@@ -36,14 +37,14 @@ export const metadata:Metadata={
   type:"website",
   siteName:"灵犀场 LINGXIFIELD",
   title:"灵犀场 LINGXIFIELD｜SASI全球多模型智能创作平台",
-  description:"处理 PDF、图片、视频和文字，整理资料并围绕原文提问。各项功能的处理方式和费用在使用前说明。",
+  description:PUBLIC_FEATURE_COPY.zh.description,
   url:SITE,
   images:[{url:SHARE_IMAGE,width:1200,height:630,alt:"灵犀场 LINGXIFIELD"}]
  },
  twitter:{
   card:"summary_large_image",
   title:"灵犀场 LINGXIFIELD｜SASI全球多模型智能创作平台",
-  description:"处理 PDF、图片、视频和文字，整理资料并围绕原文提问。各项功能的处理方式和费用在使用前说明。",
+  description:PUBLIC_FEATURE_COPY.zh.description,
   images:[SHARE_IMAGE]
  },
  robots:{index:true,follow:true,"max-snippet":-1,"max-image-preview":"large","max-video-preview":-1},

diff --git a/tests/final-closure/public-site-truth.spec.ts b/tests/final-closure/public-site-truth.spec.ts
@@ -1,4 +1,5 @@
 import {test,expect} from 'playwright/test';
+import {PUBLIC_FEATURE_COPY} from '../../lib/public-feature-copy';
 const locales=['zh','en','ja','ko','fr','de','es','pt','ar'] as const;
 const ask=["问问 SASI","Ask SASI","SASIに質問","SASI에 질문","Demandez à SASI","SASI fragen","Pregunta a SASI","Pergunte ao SASI","اسأل SASI"];
 const release=['版本与更新','Release notes','更新情報','업데이트','Mises à jour','Aktualisierungen','Actualizaciones','Atualizações','التحديثات'];
@@ -6,7 +7,9 @@ for(const [i,locale]of locales.entries())test('public copy and controls '+locale
  await page.goto('/?lang='+locale);
  const footer=page.locator('footer');
  await expect(footer.locator('a[href="/release"]')).toHaveText(release[i]);
- await expect(footer).not.toContainText(/生态|Intelligent Ecosystem|Ecossistema inteligente|Ecosistema inteligente|AI短剧|short drama|minidrama|Mini-séries IA|Kurzdramen/);
+ await expect(footer).not.toContainText(/生态|Intelligent Ecosystem|Ecossistema inteligente|Ecosistema inteligente/);
+ await expect(footer).toContainText(PUBLIC_FEATURE_COPY[locale].headline);
+ await expect(footer).toContainText(PUBLIC_FEATURE_COPY[locale].freeTools);
  await expect(page.locator('main textarea')).toHaveAttribute('aria-label',/./);
  await expect(page.locator('.lx11-lang-label').first()).not.toContainText('/ Language');
  const cards=await page.locator('.lx11-home-card').evaluateAll(elements=>elements.map(card=>{const desc=card.querySelector('p')!.getBoundingClientRect(),action=card.querySelector('b')!.getBoundingClientRect(),bounds=card.getBoundingClientRect();return{descriptionBottom:desc.bottom,actionTop:action.top,actionBottom:action.bottom,cardBottom:bounds.bottom}}));

diff --git a/components/seo/HomeToolDirectory.tsx b/components/seo/HomeToolDirectory.tsx
@@ -1,0 +1,18 @@
+import Link from 'next/link';
+import {GLOBAL_TOOL_CATALOG,localePath,toolTitle,type SeoLocale} from '@/lib/seo/global-seo';
+import {toolGeoFact} from '@/lib/seo/site-facts';
+import {PUBLIC_FEATURE_COPY} from '@/lib/public-feature-copy';
+
+// Server-rendered links remain available to crawlers without JavaScript.
+export default function HomeToolDirectory({locale}:{locale:SeoLocale}){
+ const c=PUBLIC_FEATURE_COPY[locale];
+ const tools=GLOBAL_TOOL_CATALOG.map(tool=>({tool,fact:toolGeoFact(tool.slug,locale)})).filter(item=>item.fact&&item.fact.kind!=='later');
+ return <section lang={locale} dir={locale==='ar'?'rtl':'ltr'} className="lx11-wrap" aria-label={c.directory} style={{paddingTop:24,paddingBottom:40}}>
+  <details className="rounded-2xl border border-[var(--lx-line)] p-5" data-home-tool-directory>
+   <summary className="cursor-pointer font-semibold">{c.directory} · {c.freeTools}</summary>
+   <ul className="mt-5 grid list-none gap-3 p-0 sm:grid-cols-2 lg:grid-cols-3">
+    {tools.map(({tool,fact})=><li key={tool.slug} className="flex items-start justify-between gap-3 text-sm"><Link href={localePath(locale,'/tools/'+tool.slug)}>{toolTitle(locale,tool)}</Link><span className="shrink-0 text-xs text-[var(--lx-muted)]">{fact!.kind?.startsWith('free')?c.free:c.paid}</span></li>)}
+   </ul>
+  </details>
+ </section>;
+}
